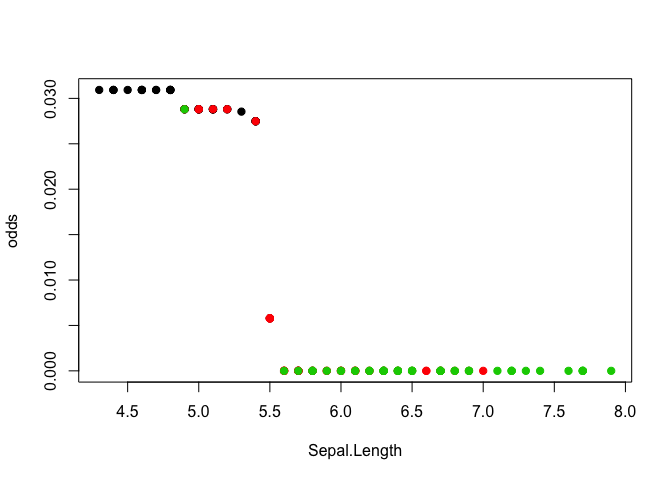
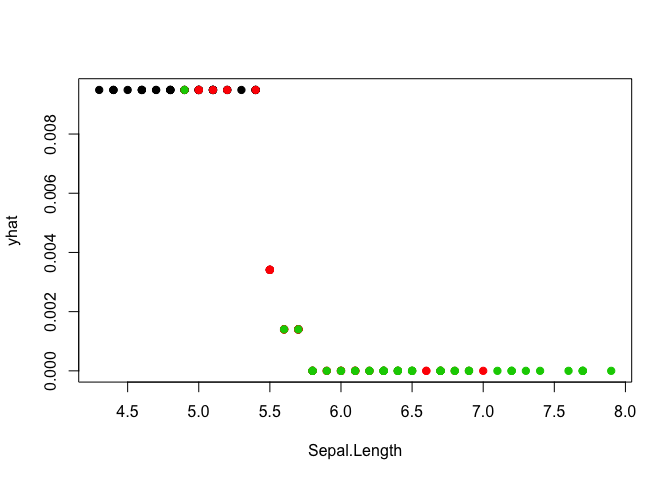
documented shiny functionality

diff --git a/quickpeak/README.md b/quickpeak/README.md
@@ -11,7 +11,7 @@ A number of approaches have been introduced to help researchers peak into black 
 
 -   Individual Conditional Expectation (ICE) - [R](https://github.com/kapelner/ICEbox) code.
 
-**quickpeak** does not attempt to replace any of these algorithms. In fact, the package offers only a very rough estimate of Partial Dependency Plots and is not suitable of rigurous analysis. The main focus of the package is on computational speed.
+**quickpeak** does not attempt to replace any of these algorithms. In fact, the package offers only a very rough estimate of Partial Dependency Plots and is not suitable for rigurous analysis. The main focus of the package is on computational speed in large datasets.
 
 Approach
 ========
@@ -37,7 +37,18 @@ Example
 ``` r
 library(quickpeak)
 library(ranger)
+```
 
+    ## Warning: package 'ranger' was built under R version 3.3.2
+
+    ## 
+    ## Attaching package: 'ranger'
+
+    ## The following object is masked from 'package:randomForest':
+    ## 
+    ##     importance
+
+``` r
 model <- ranger(data=iris, dependent.variable.name="Species", probability=TRUE)
 
 # Ranger's implementation of the predict function is not standard.
@@ -50,18 +61,18 @@ custom_predict <- function(model, newdata){
 # Note that we must exclude the column that contains our outcome vector
 # from the training dataset prior to passing it to qpeak.
 
-qp <- qpeak(model=model, X=iris[,-5], feature="Sepal.Length", predict=custom_predict)
+qp <- qpeak(model=model, X=iris[,-5], feature="Sepal.Length", FUN=custom_predict)
 
 head(qp)
 ```
 
-    ##   Sepal.Length       odds
-    ## 1          5.1 0.02880658
-    ## 2          4.9 0.02880658
-    ## 3          4.7 0.03092784
-    ## 4          4.6 0.03092784
-    ## 5          5.0 0.02880658
-    ## 6          5.4 0.02748523
+    ##   Sepal.Length        yhat
+    ## 1          5.1 0.009489198
+    ## 2          4.9 0.009489198
+    ## 3          4.7 0.009489198
+    ## 4          4.6 0.009489198
+    ## 5          5.0 0.009489198
+    ## 6          5.4 0.009489198
 
 The function returns odds such that higher values indicate greater affinity towards output of interest. We can now visualise the "decision vector" in our iris model.
 
@@ -70,3 +81,12 @@ plot(qp, pch=19, col=iris$Species)
 ```
 
 ![](README_files/figure-markdown_github/unnamed-chunk-3-1.png)
+
+Integration with Shiny
+======================
+
+To streamline exploration, **quickpeak** is also accessible through a shiny dashboard. This feature is triggered by running **qpeak** without specifying the **feature** argument.
+
+``` r{eval=false}
+qpeak(model, X, FUN=predict, type="prob")
+```
